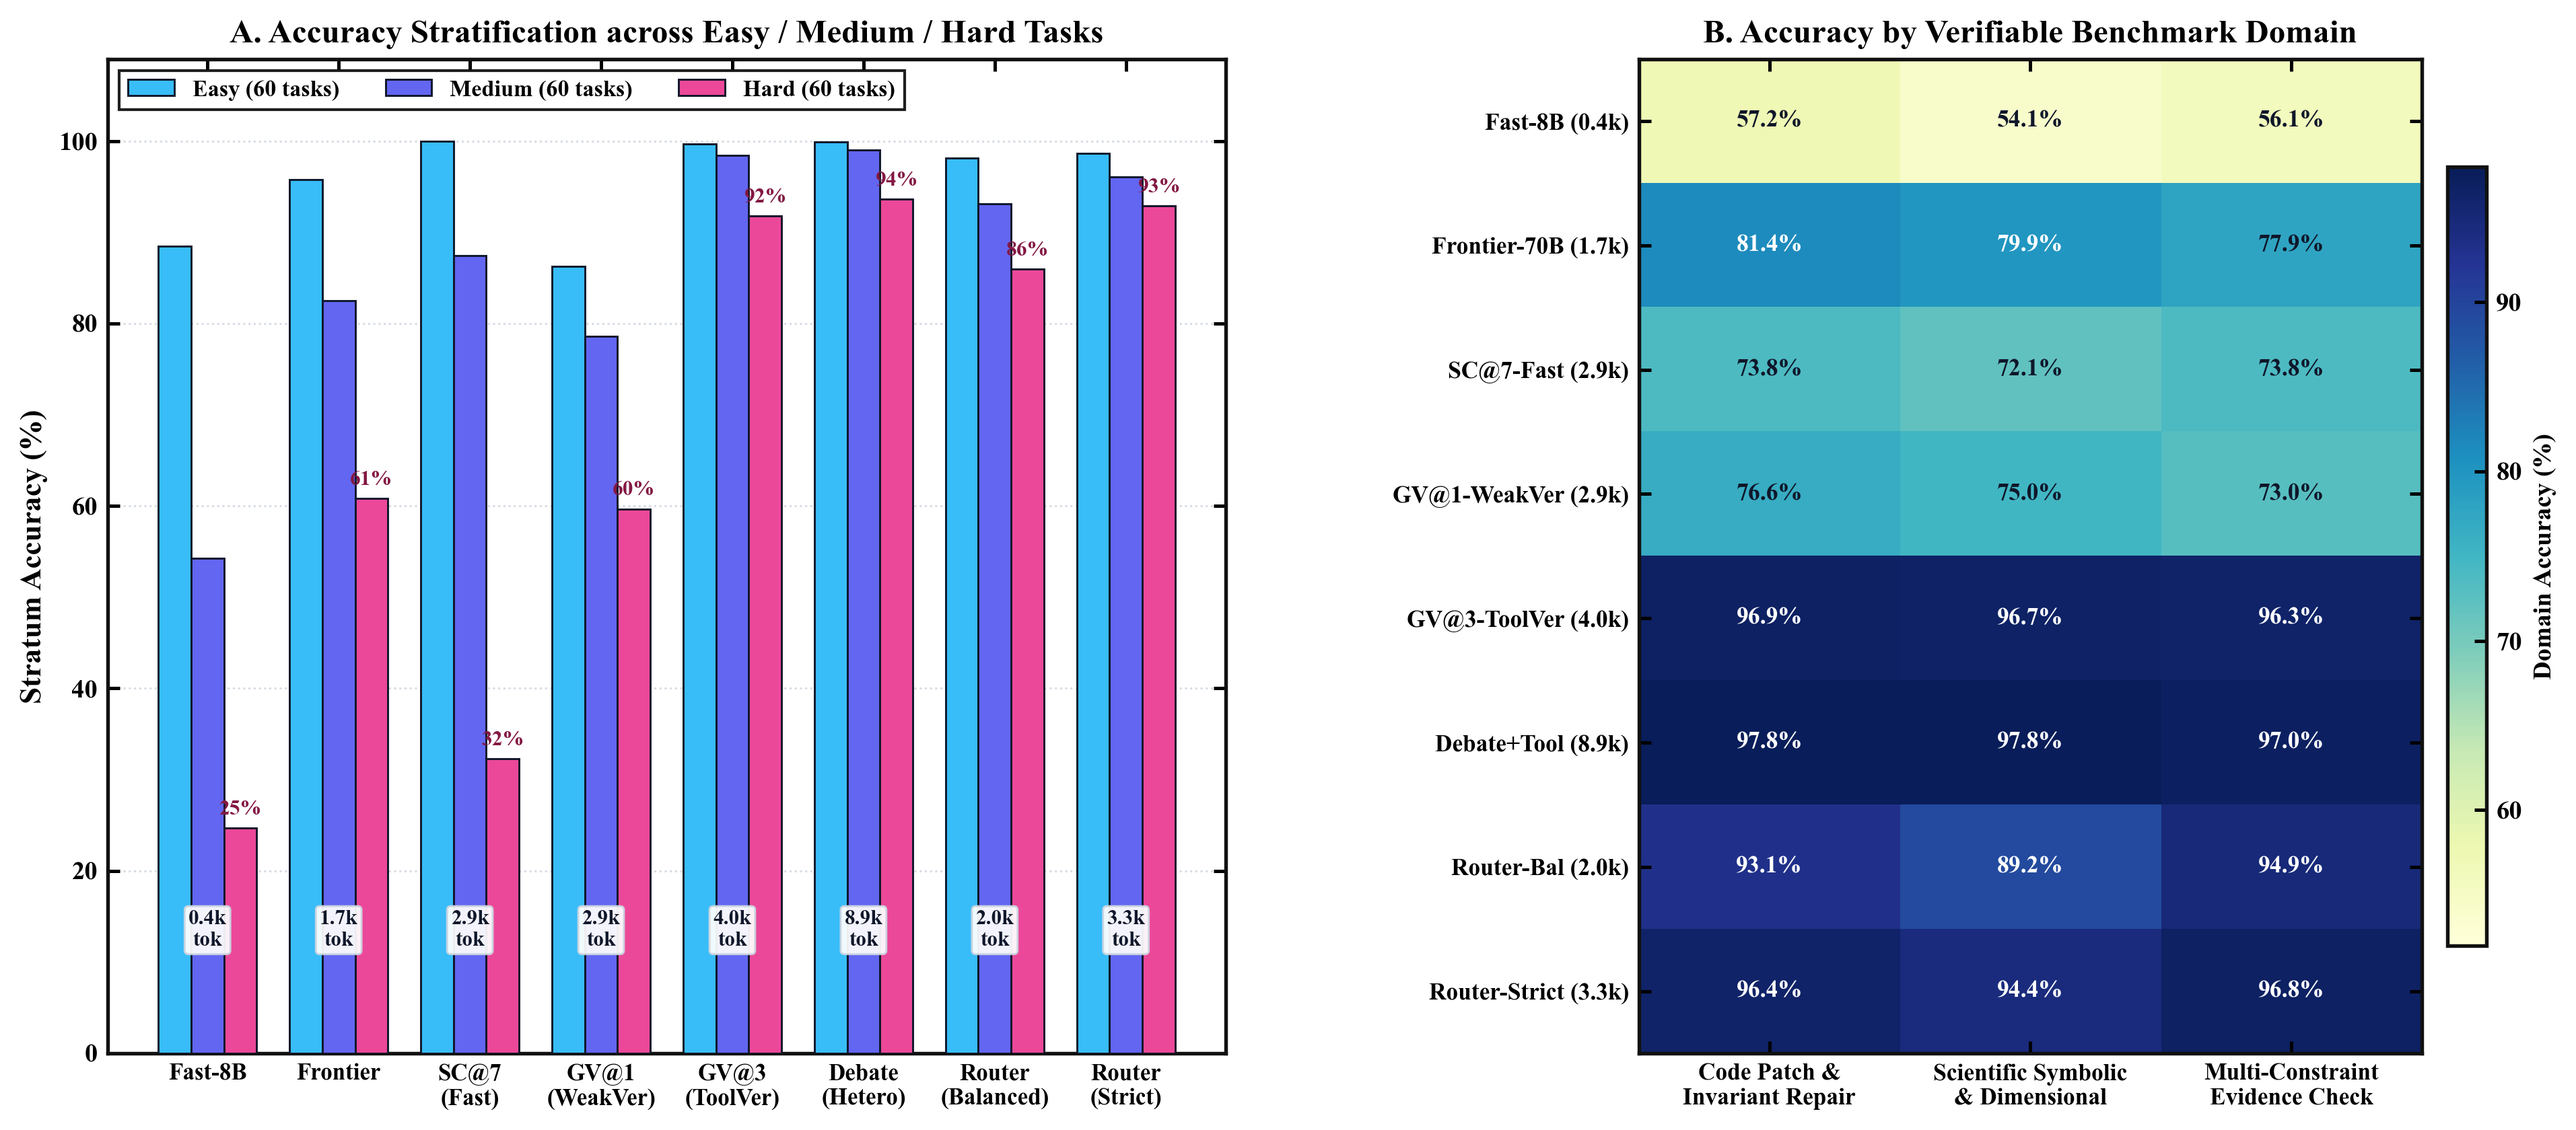
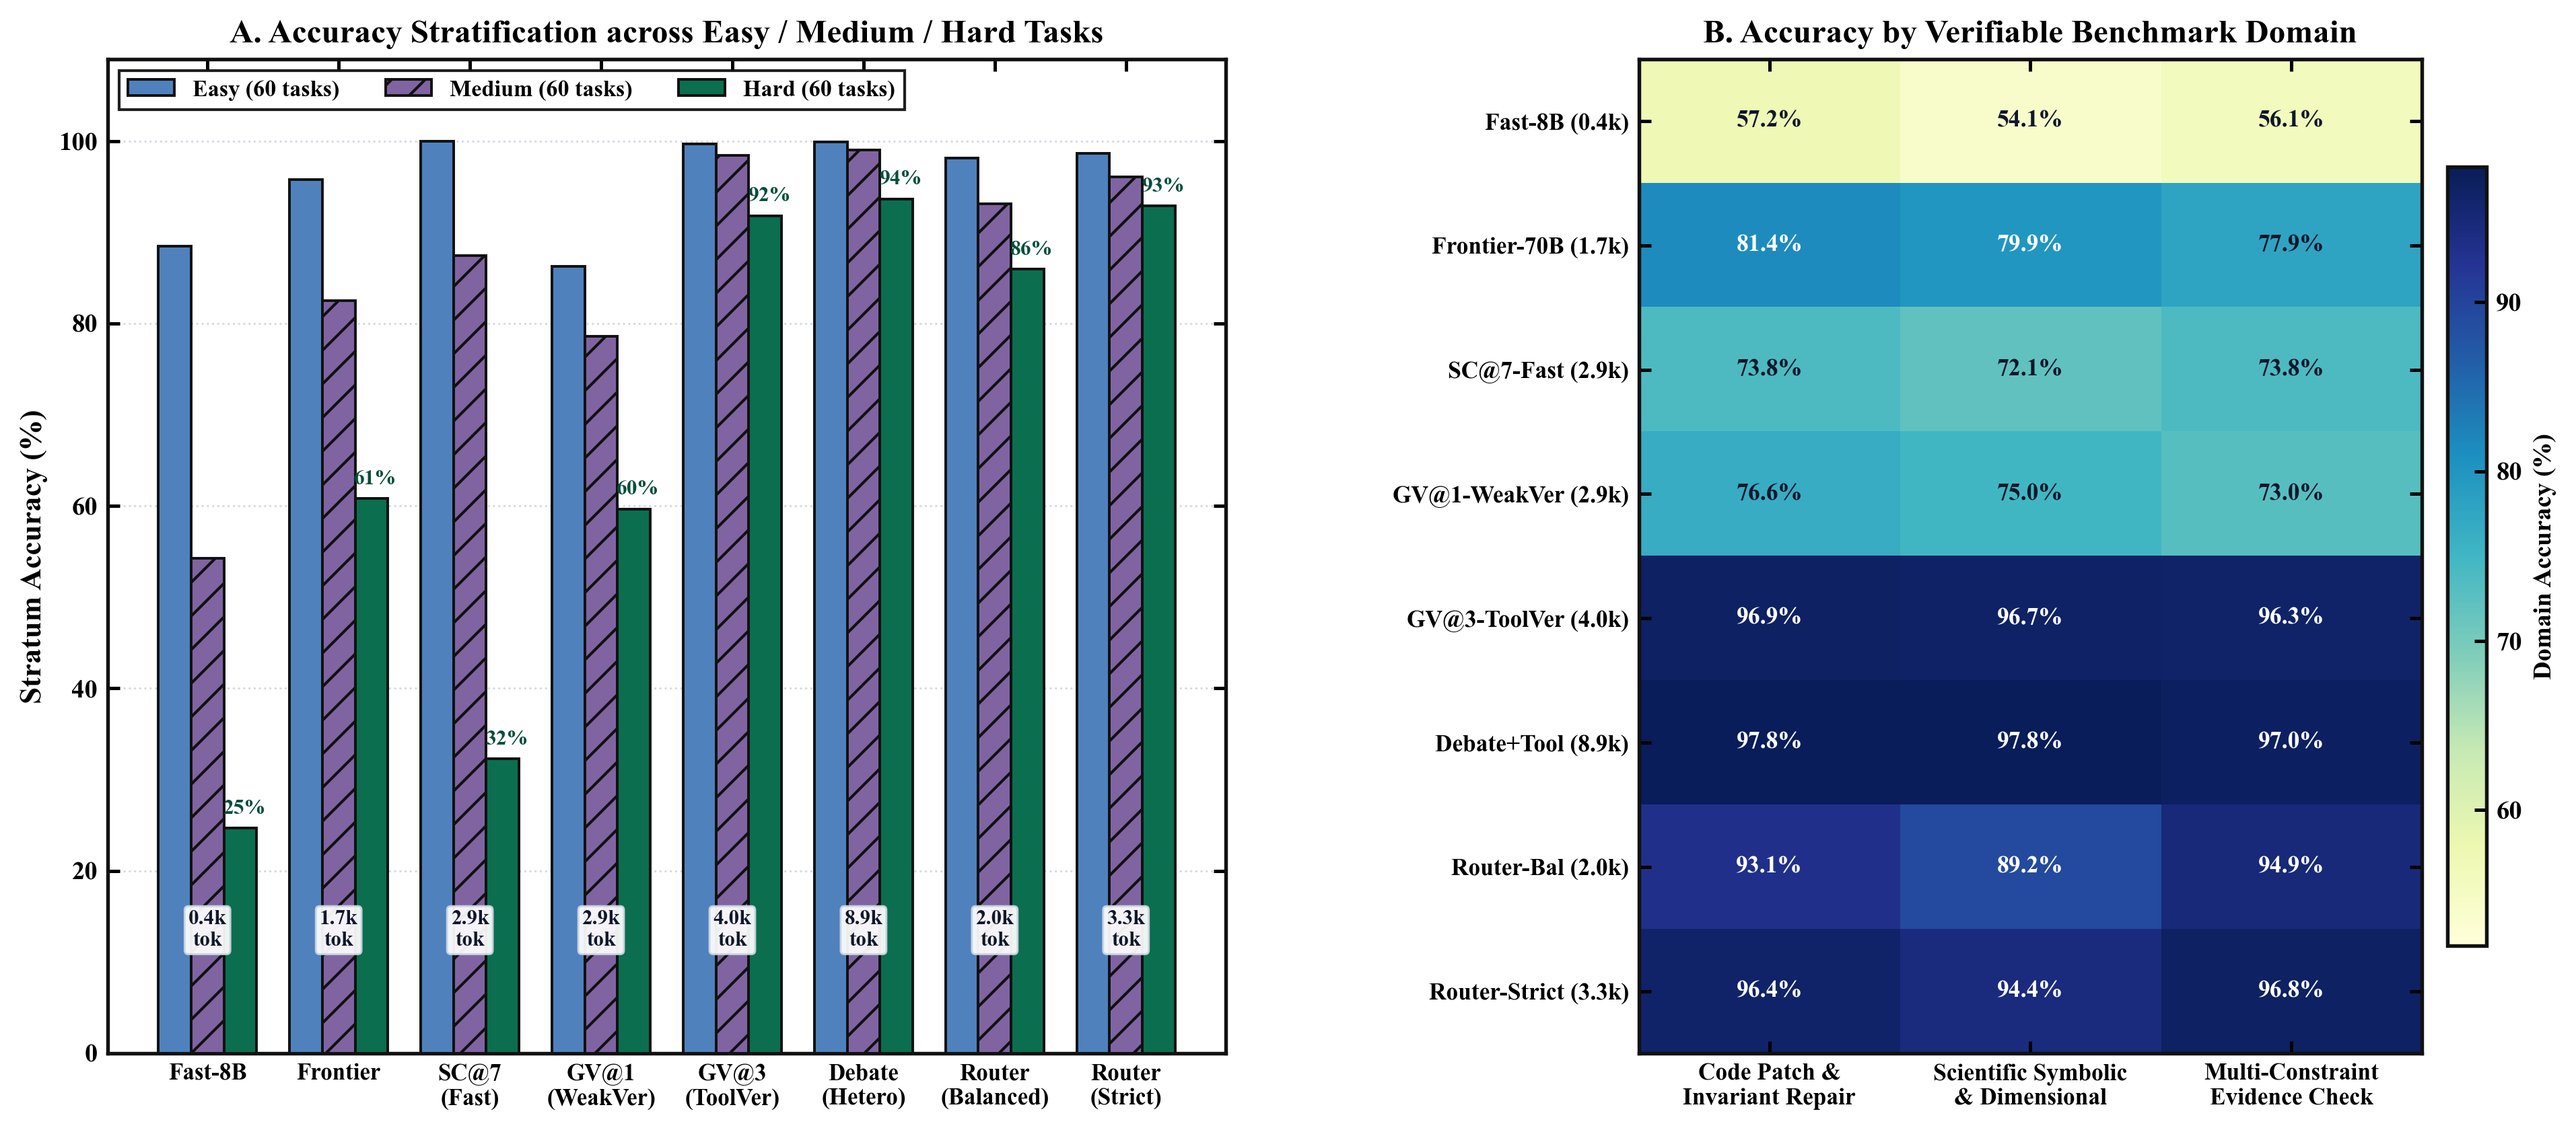
style(figures): refine muted journal bar palettes and label offsets across parametric plots

diff --git a/scripts/generate_figures.py b/scripts/generate_figures.py
@@ -269,10 +269,10 @@ def plot_pareto_frontier(data: Dict[str, Any], assets_dir: Path) -> Path:
         "S4_Debate_Homog_Mid": (150, -1.6, "Debate-Homog"),
         "S4_Debate_Hetero_MidFrontier": (150, -1.4, "Debate-Hetero"),
         "S4_Debate_Hetero_ToolJudge": (-1650, +1.3, "Debate-Hetero+Tool"),
-        "S5_Router_Lite": (-1020, +0.9, "Router-Lite"),
-        "S5_Router_Eco": (-1380, +1.1, "Router-Eco (Knee)"),
-        "S5_Router_Balanced": (-150, +1.9, "Router-Balanced"),
-        "S5_Router_Strict": (-1240, +1.0, "Router-Strict"),
+        "S5_Router_Lite": (-1060, +0.9, "Router-Lite"),
+        "S5_Router_Eco": (-1460, +0.8, "Router-Eco (Knee)"),
+        "S5_Router_Balanced": (-1380, +2.4, "Router-Balanced"),
+        "S5_Router_Strict": (-1280, +1.2, "Router-Strict"),
     }
     for cid, (dx, dy, txt) in label_offsets.items():
         if cid in configs:
@@ -631,26 +631,26 @@ def plot_difficulty_stratified_breakdown(data: Dict[str, Any], assets_dir: Path)
     tok_vals = [configs[cid]["mean_tokens"] for cid, _, _ in selected_ids]
 
     ax_diff.bar(
-        x - width, easy_vals, width, label="Easy (60 tasks)", color="#38BDF8", edgecolor="#0F172A", lw=0.7, zorder=3
+        x - width, easy_vals, width, label="Easy (60 tasks)", color="#4F81BD", edgecolor="#111111", lw=0.95, zorder=3
     )
     ax_diff.bar(
-        x, med_vals, width, label="Medium (60 tasks)", color="#6366F1", edgecolor="#0F172A", lw=0.7, zorder=3
+        x, med_vals, width, label="Medium (60 tasks)", color="#8064A2", edgecolor="#111111", lw=0.95, hatch="//", zorder=3
     )
     b3 = ax_diff.bar(
-        x + width, hard_vals, width, label="Hard (60 tasks)", color="#EC4899", edgecolor="#0F172A", lw=0.7, zorder=3
+        x + width, hard_vals, width, label="Hard (60 tasks)", color="#0B6E4F", edgecolor="#111111", lw=0.95, zorder=3
     )
 
     for bar in b3:
         h = bar.get_height()
         ax_diff.text(
-            bar.get_x() + bar.get_width() / 2.0,
-            h + 1.0,
+            bar.get_x() + bar.get_width() * 0.62,
+            h + 1.1,
             f"{h:.0f}%",
             ha="center",
             va="bottom",
             fontsize=7.6,
             fontweight="bold",
-            color="#831843",
+            color="#064E3B",
         )
 
     for idx_g, tok in enumerate(tok_vals):
@@ -764,9 +764,9 @@ def plot_routing_and_latency(data: Dict[str, Any], assets_dir: Path) -> Path:
         x_g,
         t1_pct,
         width=0.56,
-        color="#34D399",
-        edgecolor="#0F172A",
-        lw=0.8,
+        color="#0B6E4F",
+        edgecolor="#111111",
+        lw=0.95,
         label="Tier 1: Fast-8B + 0-tok MicroCheck",
         zorder=3,
     )
@@ -775,9 +775,10 @@ def plot_routing_and_latency(data: Dict[str, Any], assets_dir: Path) -> Path:
         t2_pct,
         bottom=t1_pct,
         width=0.56,
-        color="#60A5FA",
-        edgecolor="#0F172A",
-        lw=0.8,
+        color="#4F81BD",
+        edgecolor="#111111",
+        lw=0.95,
+        hatch="//",
         label="Tier 2: Mid/Frontier + Tool Repair",
         zorder=3,
     )
@@ -786,18 +787,18 @@ def plot_routing_and_latency(data: Dict[str, Any], assets_dir: Path) -> Path:
         t3_pct,
         bottom=t1_pct + t2_pct,
         width=0.56,
-        color="#F472B6",
-        edgecolor="#0F172A",
-        lw=0.8,
+        color="#D68910",
+        edgecolor="#111111",
+        lw=0.95,
         label="Tier 3: Hetero Dual-Proposer + Gate",
         zorder=3,
     )
 
     for idx_b in range(len(bar_groups)):
-        for bot, val, col_t in [
-            (0.0, t1_pct[idx_b], "#064E3B"),
-            (t1_pct[idx_b], t2_pct[idx_b], "#1E3A8A"),
-            (t1_pct[idx_b] + t2_pct[idx_b], t3_pct[idx_b], "#831843"),
+        for bot, val, col_t, bg_box in [
+            (0.0, t1_pct[idx_b], "white", None),
+            (t1_pct[idx_b], t2_pct[idx_b], "#111111", "white"),
+            (t1_pct[idx_b] + t2_pct[idx_b], t3_pct[idx_b], "#111111", None),
         ]:
             if val >= 8.0:
                 ax_alloc.text(
@@ -809,6 +810,7 @@ def plot_routing_and_latency(data: Dict[str, Any], assets_dir: Path) -> Path:
                     fontsize=8.3,
                     fontweight="bold",
                     color=col_t,
+                    bbox=(dict(boxstyle="square,pad=0.12", fc=bg_box, ec="none", alpha=0.82) if bg_box else None),
                     zorder=5,
                 )
 
